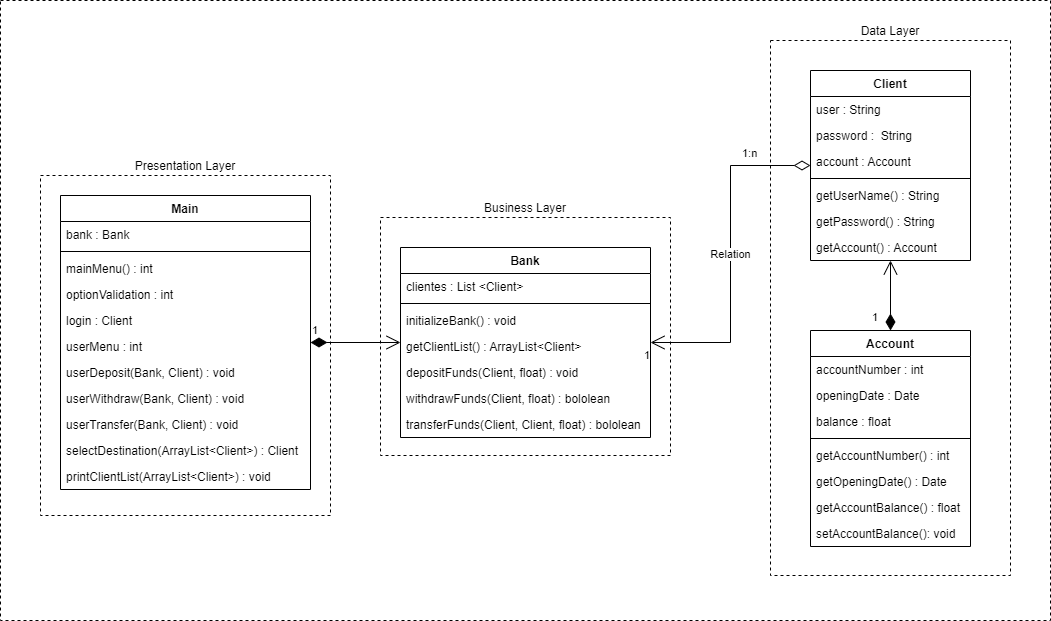
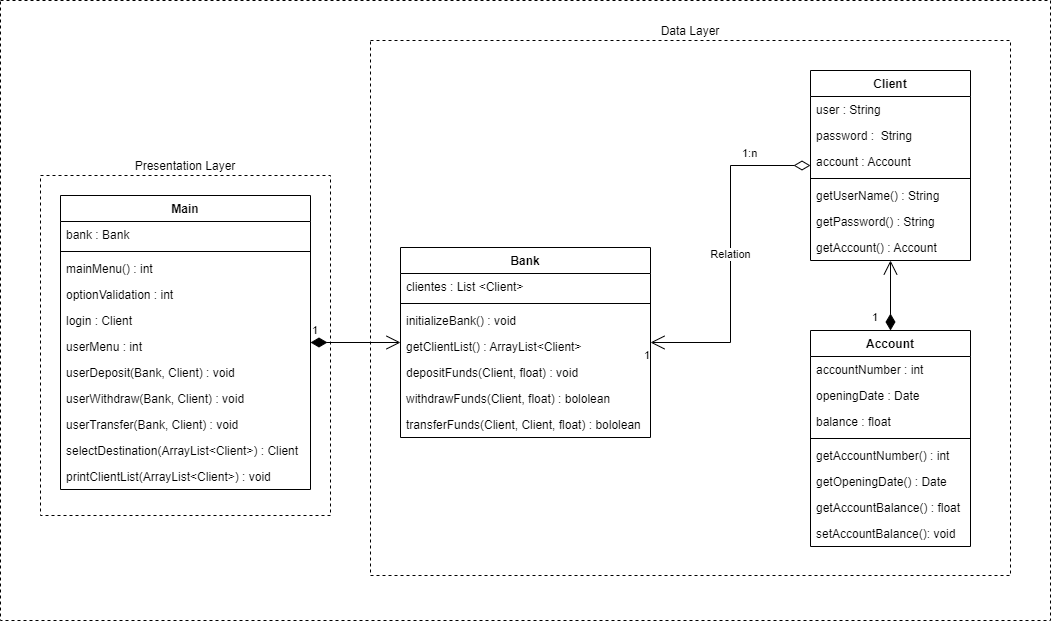
moved bank to data layer, moved bank initialization to main

Changed region(s): [[0.4567, 0.306, 0.548, 0.3671], [0.6089, 0.0306, 0.7003, 0.0612], [0.8221, 0.0306, 0.883, 0.0612]]

diff --git a/src/Main.java b/src/Main.java
@@ -1,4 +1,4 @@
-import org.taeacademy.globantbank.business.Bank;
+import org.taeacademy.globantbank.data.Bank;
 import org.taeacademy.globantbank.data.Client;
 
 import java.util.ArrayList;
@@ -9,7 +9,7 @@ public class Main {
     public static void main(String[] args){
 
         Bank globantBank = new Bank();
-        globantBank.initializeBank();
+        initializeBank(globantBank);
 
         int option = -1;
         int option2 = -1;
@@ -219,5 +219,15 @@ public class Main {
                 System.out.println(currentClient.getUserName() + "\t\t\t\t" + currentClient.getAccount().getAccountNumber() + "\t\t\t" + currentClient.getAccount().getOpeningDate());
             }
         }
+    }
+
+    public static void initializeBank(Bank bank){
+        ArrayList<Client> clients = bank.getClientList();
+        clients.add(new Client("Jaime Sarmiento", 9000001));
+        clients.add(new Client("Felipe Jimenez", 9000002));
+        clients.add(new Client("Juan Pablo Castiblanco", 9000003));
+        clients.add(new Client("Ana Margarita Garcia", 9000004));
+        clients.add(new Client("Johana Valencia", 9000005));
+        clients.add(new Client("Joan Zorovich", 9000006));
     }
 }

diff --git a/src/org/taeacademy/globantbank/data/Bank.java b/src/org/taeacademy/globantbank/data/Bank.java
@@ -1,4 +1,4 @@
-package org.taeacademy.globantbank.business;
+package org.taeacademy.globantbank.data;
 
 import org.taeacademy.globantbank.data.Client;
 import java.util.ArrayList;
@@ -6,15 +6,6 @@ import java.util.ArrayList;
 public class Bank {
 
     ArrayList<Client> clientList = new ArrayList<>();
-
-    public void initializeBank(){
-        this.clientList.add(new Client("Jaime Sarmiento", 9000001));
-        this.clientList.add(new Client("Felipe Jimenez", 9000002));
-        this.clientList.add(new Client("Juan Pablo Castiblanco", 9000003));
-        this.clientList.add(new Client("Ana Margarita Garcia", 9000004));
-        this.clientList.add(new Client("Johana Valencia", 9000005));
-        this.clientList.add(new Client("Joan Zorovich", 9000006));
-    }
 
     public ArrayList<Client> getClientList(){
         return this.clientList;
